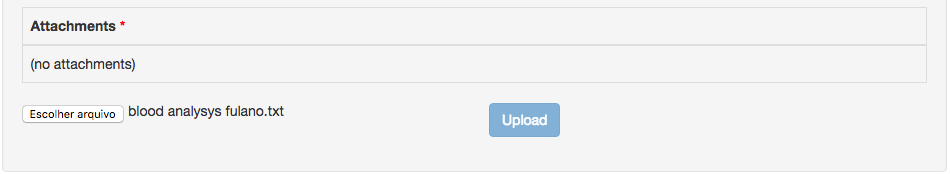
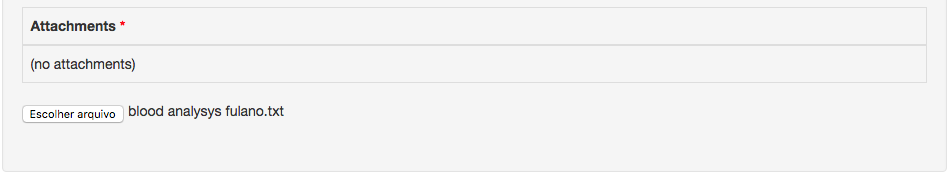
NES-924 - Saving the exam file succeeds without redirecting to view page - Documentation

Changed region(s): [[0.4884, 0.5747, 0.6105, 0.8046]]

diff --git a/docs/userguide/participants/medicalevaluation.rst b/docs/userguide/participants/medicalevaluation.rst
@@ -116,7 +116,7 @@ You will see the name of file close to the button.
 
 .. image:: ../../_img/participant_medical_evaluation_exam_file_included.png
 
-Click the `Upload` button to include the file as an attachment. A message to confirm the file attachment is presented (in green, on the top right of the screen) and the file will be inserted into the attachment area. You can include as many files as necessary.
+Click the `Save` button at the bottom right of the page to include the file as an attachment. A message to confirm the file attachment is presented (in green, on the top right of the screen) and the file will be inserted into the attachment area. You can include as many files as necessary.
 
 .. image:: ../../_img/participant_medical_evaluation_exam_file_attached.png
 
@@ -124,9 +124,7 @@ Now you can either download the file (by clicking the |download icon| icon)  or 
 
 .. |delete icon| image:: ../../_img/delete_icon.png
 
-You can save exam information by clicking *Save* button.
-
-If you click `Back` button, you will see the attached exam.
+To go back to the page of the diagnosis you may click in the `Back` button. There you will see the attached exam.
 
 .. image:: ../../_img/participant_medical_evaluation_show_exam.png
 
